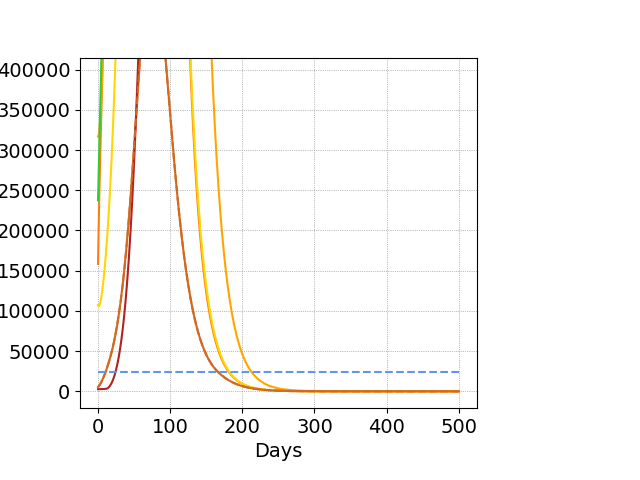
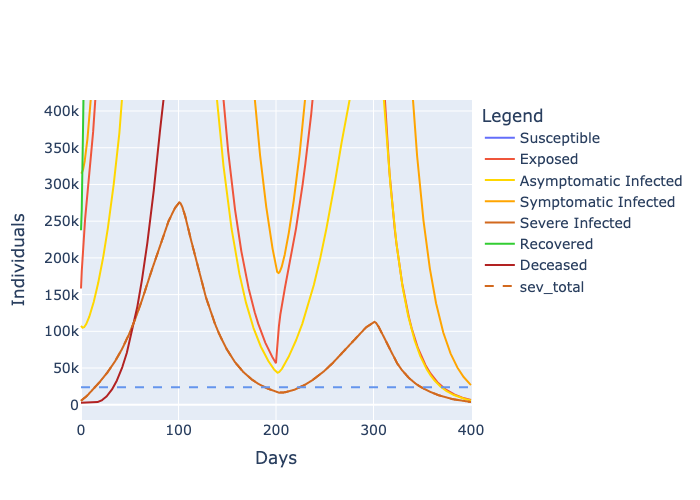
second wave code added

diff --git a/simulation/code/run_simulations.py b/simulation/code/run_simulations.py
@@ -1,6 +1,8 @@
 # Global imports
 import os
 import time
+from numpy import array as vector
+from numpy import matrix as matrix
 
 # Local imports
 from data_reader import Data_Reader # reader for old data format
@@ -18,15 +20,17 @@ stepsize = 1e-2
 
 def beta(t):
     if t < 100:
-        return 0.25
+        return matrix(vector([0.15]).reshape((1, 1)))
     elif t < 200:
-        return 0.1
+        return matrix(vector([0.08]).reshape((1, 1)))
+    elif t < 300:
+        return matrix(vector([0.3]).reshape((1, 1)))
     else:
-        return 0.4
+        return matrix(vector([0.1]).reshape((1, 1)))
 
 # Preparing data parsing
 # data_set_name = "scenarios-underlying-figure-4"
-data_set_name = "india"
+data_set_name = "my_scenario"
 data_directory_name = "../data/" + data_set_name + "/"
 data_directory = os.fsencode(data_directory_name)
 
@@ -53,8 +57,8 @@ for file in os.listdir(data_directory):
             ode_system = SEIIIRD_Tracing_Model(packed_data[1:-1])
         else:
             print("Setting up the tracing-free model")
-            # ode_system = SEIIIRD_Model(packed_data[1:-1], time_dependent_params={'beta_asym': beta, 'beta_sym': beta, 'beta_sev': beta})
-            ode_system = SEIIIRD_Model(packed_data[1:-1])
+            ode_system = SEIIIRD_Model(packed_data[1:-1], time_dependent_params={'beta_asym': beta, 'beta_sym': beta, 'beta_sev': beta})
+            # ode_system = SEIIIRD_Model(packed_data[1:-1])
 
         # Solve the ODE system
         explicit_euler = Explicit_Euler(ode_system, stepsize)

diff --git a/simulation/code/data_reader.py b/simulation/code/data_reader.py
@@ -95,6 +95,9 @@ class Data_Reader:
                 elif row[0] == "D":
                     D = vector(self._to_float(row[1:1+K]))
                     assert(len(D) == K)
+                # elif row[0] == "imm_rate":
+                #     imm_rate = vector(self._to_float(row[1:1+K]))
+                #     assert(len(imm_rate) == K)
                 else:
                     print("Unknown data field: " + str(row[0]))
                     assert(False)

diff --git a/simulation/code/seiiird_model.py b/simulation/code/seiiird_model.py
@@ -46,7 +46,7 @@ class SEIIIRD_Model:
         gamma_sym = self.time_dependent_params.get('gamma_sym', lambda t: self.gamma_sym)(t)
         gamma_sev_d = self.time_dependent_params.get('gamma_sev_d', lambda t: self.gamma_sev_d)(t)
         gamma_sev_r = self.time_dependent_params.get('gamma_sev_r', lambda t: self.gamma_sev_r)(t)
-
+        
         # Sanity checks
         assert(x.shape[0] == 7 * self.K)
         # print(abs(sum(x) - sum(self.N)))

diff --git a/simulation/code/visualizer.py b/simulation/code/visualizer.py
@@ -166,8 +166,6 @@ class Visualizer:
             #     x=0.01
             # )
         )
-        
-        fig.show()
 
         fig.write_image(self.filename + "_aggr_full.png")
         ymax = 0.2 * self.N_total
